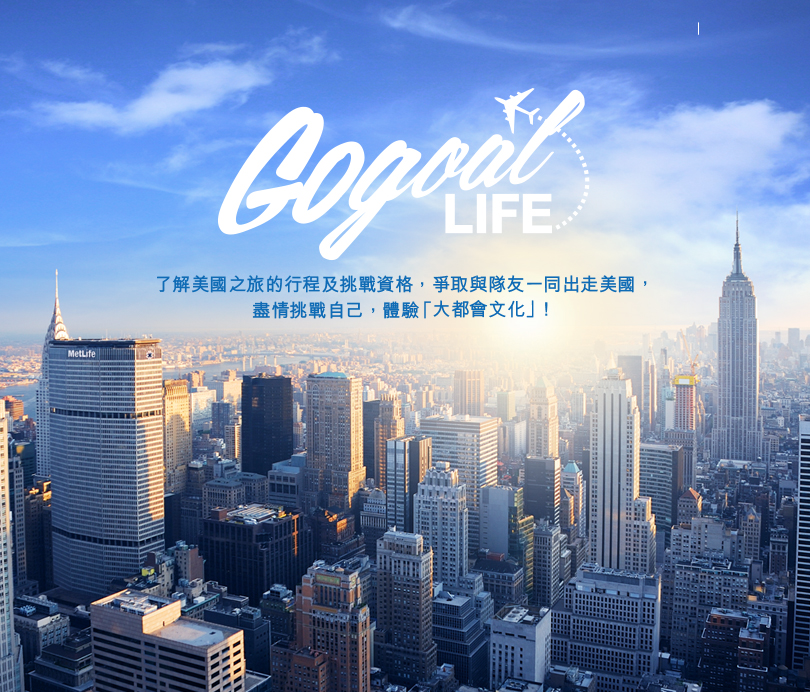
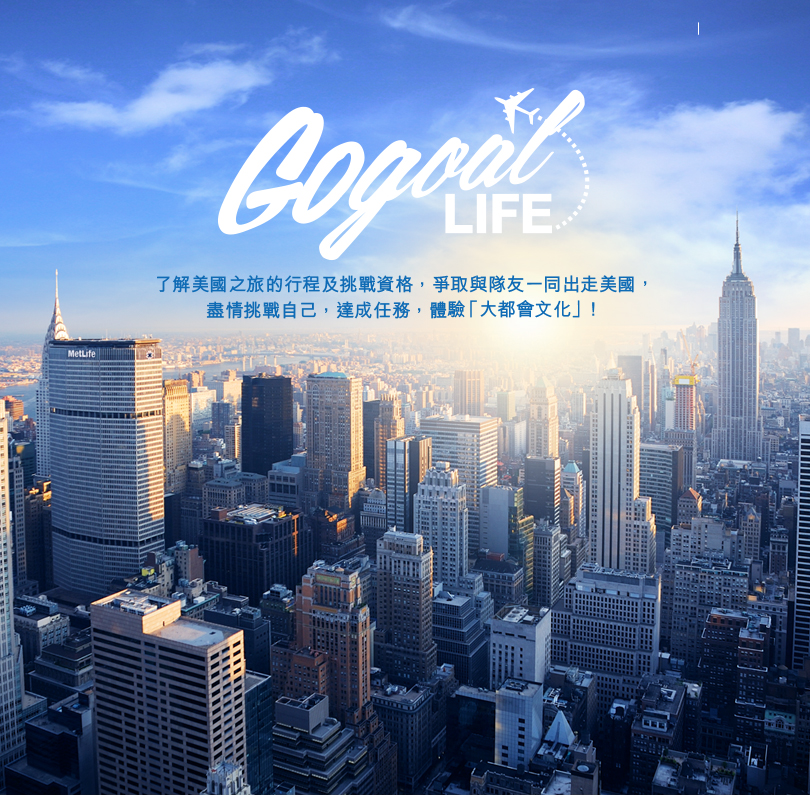
phase 2

diff --git a/client/styles/main.scss b/client/styles/main.scss
@@ -117,13 +117,20 @@ canvas{ display:none !important; opacity: 0!important; }
         background-image: url(../images/btn-submit-form.jpg);
     }
 }
+.fancybox-skin{ background-color: #000; }
+.fancybox-close{ 
+    width:53px; height:52px; background-repeat: no-repeat;
+    background-position: center center;
+    background-image: url(../images/video-close.png); 
+    right: -65px; top: 2px;
+}
 .wrapper{ width:810px; margin:0 auto; position:relative; }
 #landing{
     // height: 795px; 
-    height: 692px; 
+    height: 795px; 
     overflow: hidden;
     .upper{
-        width:100%; height:692px; background-image: url(../images/landing.jpg);
+        width:100%; height:795px; background-image: url(../images/landing.jpg);
         overflow: hidden; position:relative;
         .enterBtn{
             height:250px; top: 310px; left: 260px; width:304px;
@@ -136,6 +143,14 @@ canvas{ display:none !important; opacity: 0!important; }
             .normalBtn{ background-position: 0 0; }
             .hoverBtn{ background-position: -304px 0; display:none; }
         }
+    }
+    .videoList{
+        position:absolute; width:100%; height:146px;
+        background-image: url(../images/list-video.png);
+        background-repeat: no-repeat; background-position: center center;
+        padding-top:86px; bottom: 48px; left:0; text-align: center;
+        .videos{ width:510px; margin:0 auto; }
+        .video{ display:block; float:left; width:102px; height:102px; }
     }
     .lower{
         position:relative; background-color: #fff; 
@@ -166,6 +181,7 @@ canvas{ display:none !important; opacity: 0!important; }
 }
 .mobile{
     background-color: #3c62bc;
+    .fancybox-close{ right:0px; top:-70px; background-size:auto; }
     .wrapper{ width:640px; }
     .backBtn{ top:103px; }
     .about{ 
@@ -244,9 +260,9 @@ canvas{ display:none !important; opacity: 0!important; }
     }
     #landing{
         // height:1045px;
-        height:960px;
+        height:1045px;
         .upper{ 
-            height:960px; background-image: url(../images/mobile/landing.jpg); 
+            height:1045px; background-image: url(../images/mobile/landing.jpg); 
             .enterBtn{ 
                 top: 415px; height:256px; width:330px; left:160px;
                 .normalBtn, .hoverBtn{ 

diff --git a/client/scripts/main.js b/client/scripts/main.js
@@ -116,6 +116,20 @@ require(['class/SectionBase', 'class/SectionManager', 'class/CommonObject', 'cla
             }
         });
     }
+
+    $(".video").click(function() {
+        var href = $(this).attr('href');
+        if(href){
+            $.fancybox({
+                'padding'       : 0,
+                'width'         : 640,
+                'height'        : 480,
+                'href'          : href,
+                'type'          : 'iframe'
+            });
+        }
+        return false;
+    });
     instagramAnimation();
     instagramLightAnimation();
     _co.instagram = new IB();
